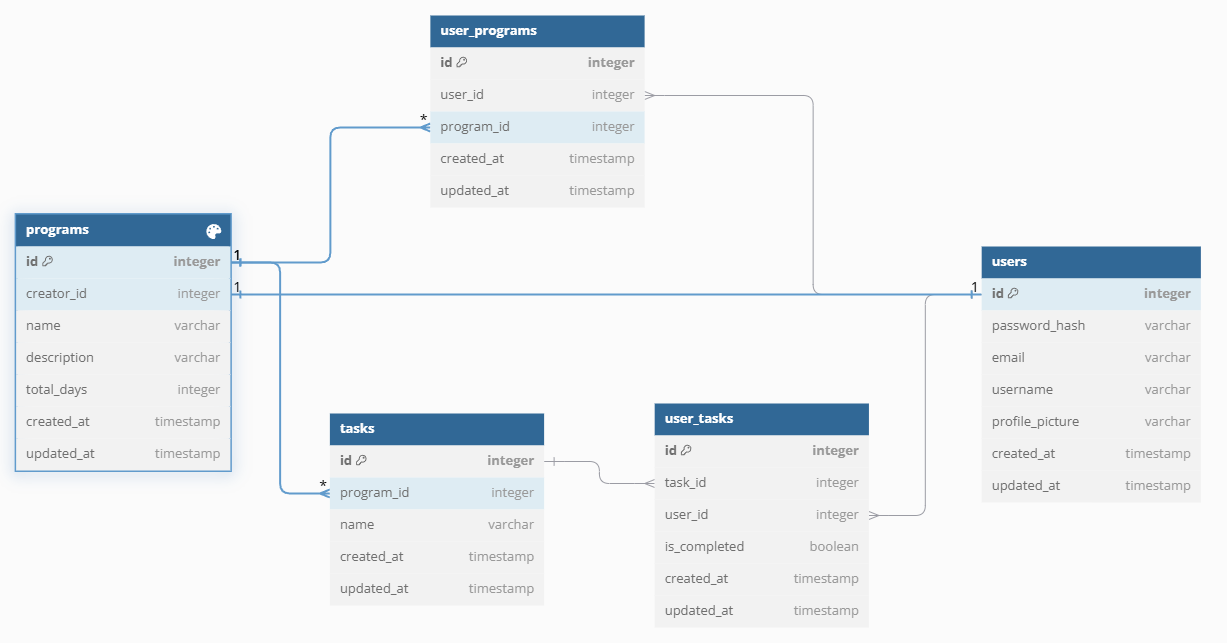
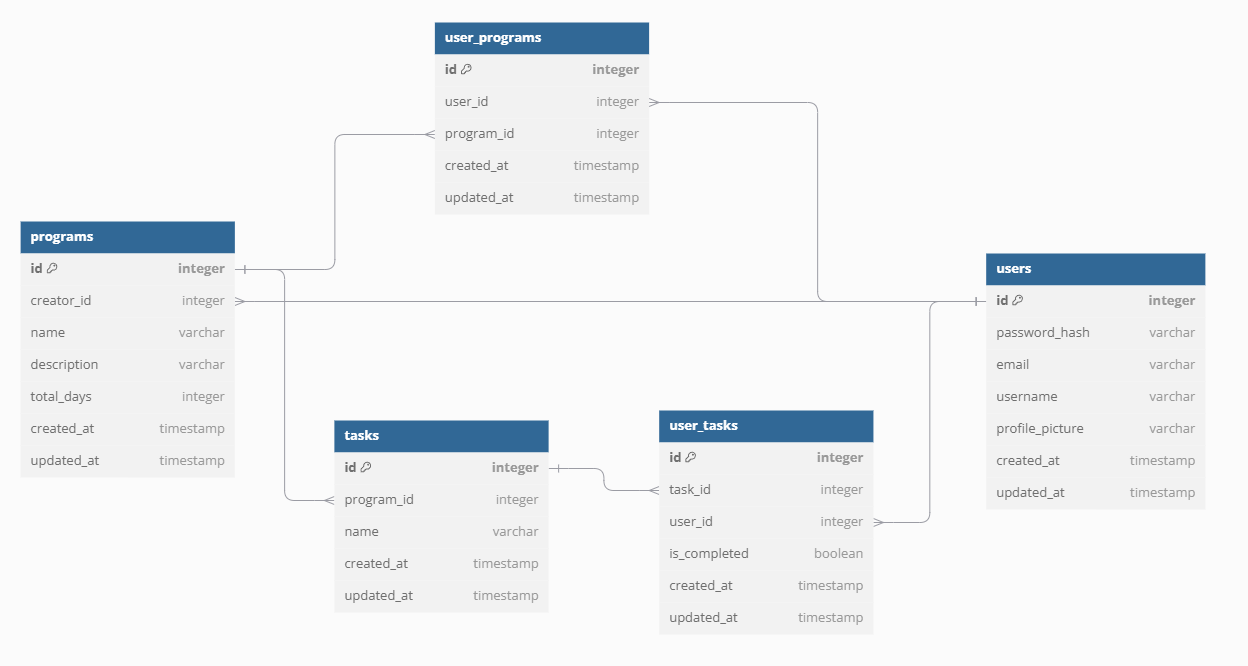
created all other table for model files

diff --git a/app/models/programs.py b/app/models/programs.py
@@ -1,0 +1,31 @@
+from .db import SCHEMA, add_prefix_for_prod, db, environment
+from sqlalchemy.sql import func
+
+class Program(db.Model):
+    __tablename__ = "programs"
+
+    if environment == "production":
+        __table_args__ = {"schema": SCHEMA}
+    
+
+    id = db.Column(db.Integer, primary_key=True)
+    name = db.Column(db.String(), nullable=False)
+    description = db.Column(db.String(), nullable=False)
+    total_days = db.Column(db.Integer, nullable=False)
+    creator_id = db.Column(db.Integer, db.ForeignKey(add_prefix_for_prod('users.id'), ondelete="CASCADE"))
+
+    created_at = db.Column(db.DateTime(timezone=True), server_default=func.now(), nullable=False)
+    updated_at = db.Column(db.DateTime(timezone=True), server_default=func.now(), onupdate=func.current_timestamp(), nullable=False)
+    # user_stocks = db.relationship("UserStock", backref="stocks", cascade="all, delete-orphan")
+    # watchlist_stocks = db.relationship("WatchlistStock", backref="stocks", cascade="all, delete-orphan")
+
+    def to_dict_basic(self):
+        return {
+            "id": self.id,
+            "name": self.name,
+            "description": self.description,
+            "total_days": self.total_days,
+            "creator_id": self.creator_id,
+            "created_at": self.created_at,
+            "updated_at": self.updated_at
+        }

diff --git a/app/models/user.py b/app/models/user.py
@@ -1,6 +1,7 @@
-from .db import db, environment, SCHEMA, add_prefix_for_prod
+from .db import db, environment, SCHEMA
 from werkzeug.security import generate_password_hash, check_password_hash
 from flask_login import UserMixin
+from sqlalchemy.sql import func
 
 
 class User(db.Model, UserMixin):
@@ -13,6 +14,11 @@ class User(db.Model, UserMixin):
     username = db.Column(db.String(40), nullable=False, unique=True)
     email = db.Column(db.String(255), nullable=False, unique=True)
     hashed_password = db.Column(db.String(255), nullable=False)
+
+    created_at = db.Column(db.DateTime(timezone=True), server_default=func.now(), nullable=False)
+    updated_at = db.Column(db.DateTime(timezone=True), server_default=func.now(), onupdate=func.current_timestamp(), nullable=False)
+
+    programs = db.relationship("Program", backref="programs", cascade="all, delete-orphan")
 
     @property
     def password(self):

diff --git a/app/models/user_programs.py b/app/models/user_programs.py
@@ -1,0 +1,16 @@
+from .db import SCHEMA, add_prefix_for_prod, db, environment
+from sqlalchemy.sql import func
+
+class UserProgram(db.Model):
+    __tablename__ = "user_programs"
+
+    if environment == "production":
+        __table_args__ = {"schema": SCHEMA}
+    
+
+    id = db.Column(db.Integer, primary_key=True)
+    user_id = db.Column(db.Integer, db.ForeignKey(add_prefix_for_prod('users.id'), ondelete="CASCADE"))
+    program_id = db.Column(db.Integer, db.ForeignKey(add_prefix_for_prod('programs.id'), ondelete="CASCADE"))
+
+    created_at = db.Column(db.DateTime(timezone=True), server_default=func.now(), nullable=False)
+    updated_at = db.Column(db.DateTime(timezone=True), server_default=func.now(), onupdate=func.current_timestamp(), nullable=False)

diff --git a/app/models/user_tasks.py b/app/models/user_tasks.py
@@ -1,0 +1,17 @@
+from .db import SCHEMA, add_prefix_for_prod, db, environment
+from sqlalchemy.sql import func
+
+class UserTask(db.Model):
+    __tablename__ = "user_tasks"
+
+    if environment == "production":
+        __table_args__ = {"schema": SCHEMA}
+    
+
+    id = db.Column(db.Integer, primary_key=True)
+    task_id = db.Column(db.Integer, db.ForeignKey(add_prefix_for_prod('tasks.id'), ondelete="CASCADE"))
+    user_id = db.Column(db.Integer, db.ForeignKey(add_prefix_for_prod('users.id'), ondelete="CASCADE"))
+    
+
+    created_at = db.Column(db.DateTime(timezone=True), server_default=func.now(), nullable=False)
+    updated_at = db.Column(db.DateTime(timezone=True), server_default=func.now(), onupdate=func.current_timestamp(), nullable=False)

diff --git a/app/models/tasks.py b/app/models/tasks.py
@@ -1,0 +1,16 @@
+from .db import SCHEMA, add_prefix_for_prod, db, environment
+from sqlalchemy.sql import func
+
+class Taks(db.Model):
+    __tablename__ = "tasks"
+
+    if environment == "production":
+        __table_args__ = {"schema": SCHEMA}
+    
+
+    id = db.Column(db.Integer, primary_key=True)
+    program_id = db.Column(db.Integer, db.ForeignKey(add_prefix_for_prod('programs.id'), ondelete="CASCADE"))
+    name = db.Column(db.String(), nullable=False)
+
+    created_at = db.Column(db.DateTime(timezone=True), server_default=func.now(), nullable=False)
+    updated_at = db.Column(db.DateTime(timezone=True), server_default=func.now(), onupdate=func.current_timestamp(), nullable=False)
